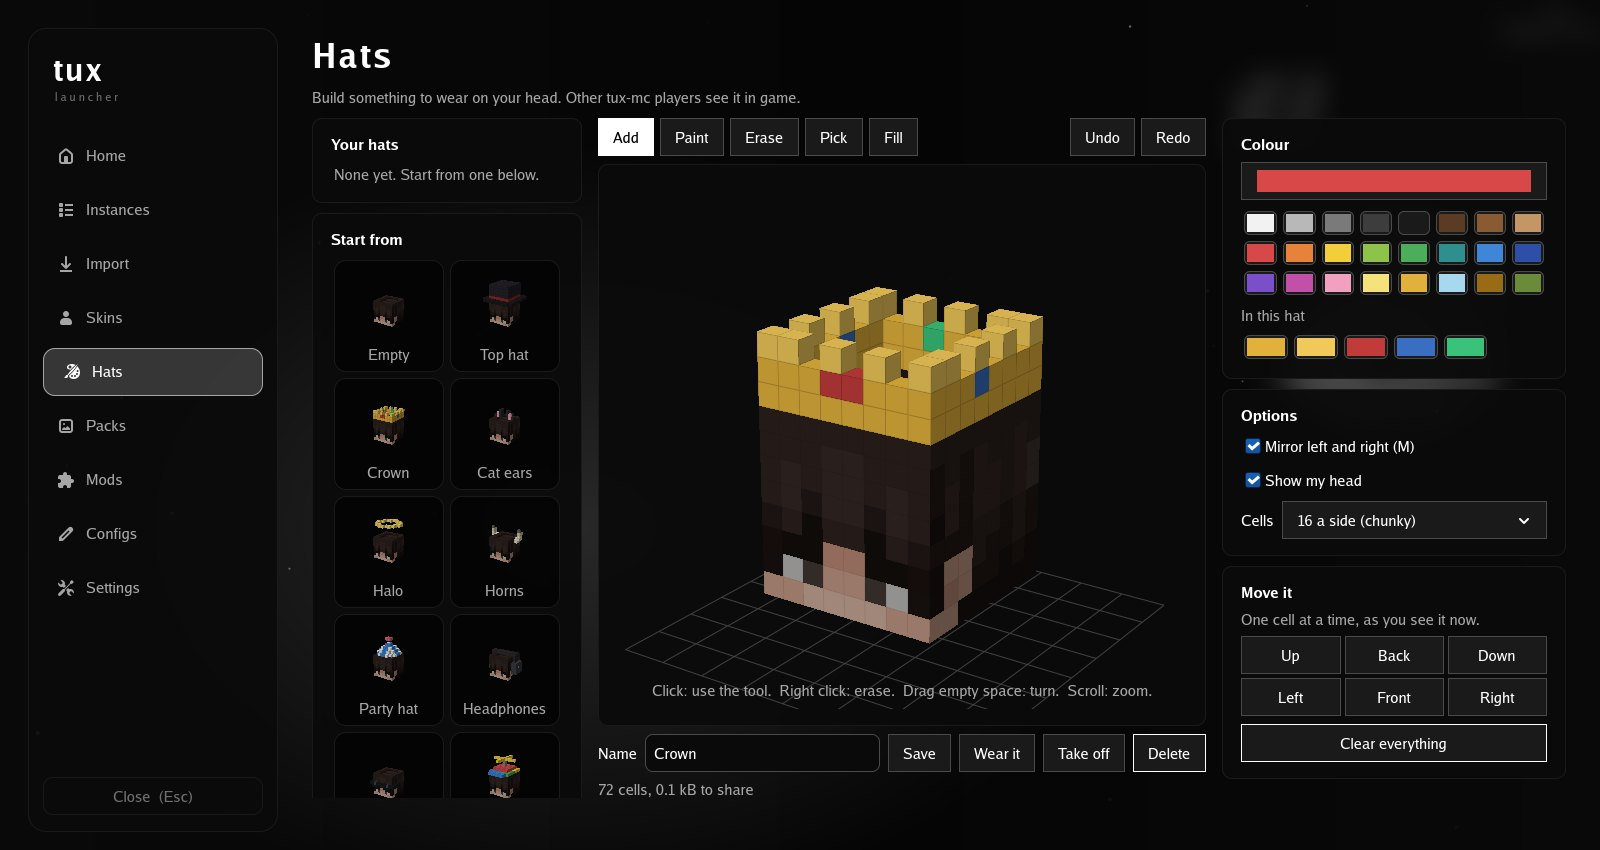
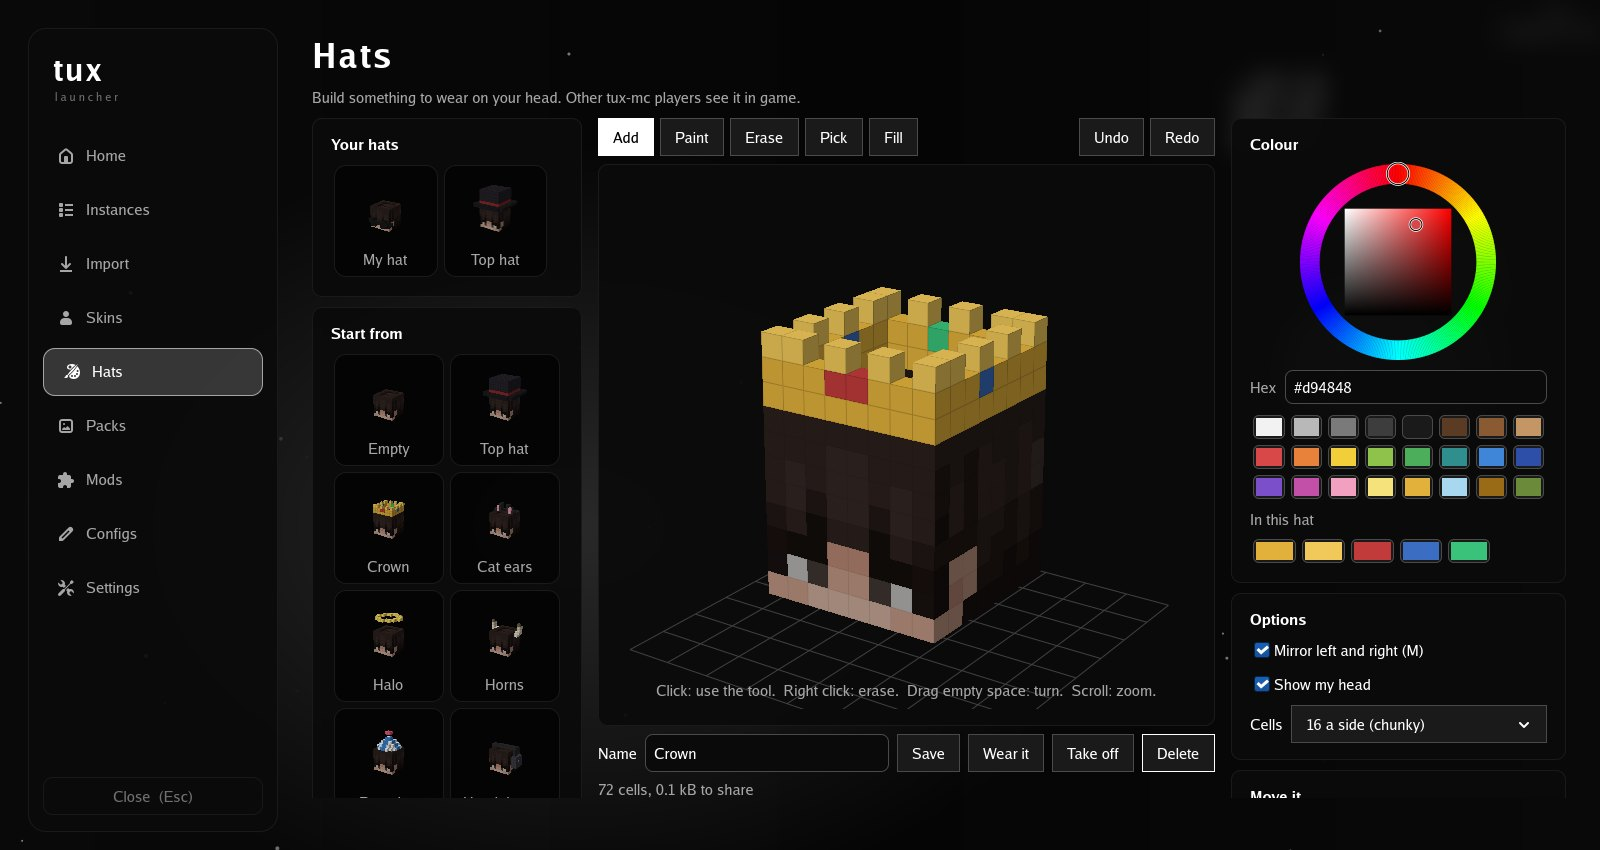
tux-mc: simpler Packs page, colour wheel

diff --git a/tux-mc/index.html b/tux-mc/index.html
@@ -257,14 +257,14 @@
       </div>
       <div class="grid grid--top fill" data-peek>
         <ul class="rows span-5">
-          <li data-peek-to="hats" tabindex="0"><span class="rows__name">Hats</span><p>Build a 3D model on your head, cell by cell, with one side mirrored for you. Start from a crown, cat ears, a top hat and more, or import a MagicaVoxel file.</p></li>
-          <li data-peek-to="packs" tabindex="0"><span class="rows__name">Packs</span><p>Make a resource pack here: draw on any texture, shift its colours, or change a whole group in one click, like clear glass or ores that stand out.</p></li>
+          <li data-peek-to="hats" tabindex="0"><span class="rows__name">Hats</span><p>Build a 3D model on your head, cell by cell, in any colour, with one side mirrored for you. Start from a crown, cat ears, a top hat and more, or import a MagicaVoxel file.</p></li>
+          <li data-peek-to="packs" tabindex="0"><span class="rows__name">Packs</span><p>Make a resource pack here: find any texture by name, draw on it with any colour from the wheel, and switch the pack on. Every change saves by itself.</p></li>
           <li data-peek-to="themes" tabindex="0"><span class="rows__name">Themes</span><p>Click a theme and it's used at once, in Prism and in game too. Or pick three colours, or take them from your wallpaper.</p></li>
           <li data-peek-to="title" tabindex="0"><span class="rows__name">Title screen</span><p>Your own picture behind the game's menus, with blur and darkening, previewed before you start.</p></li>
         </ul>
         <div class="frame frame--photo frame--fill span-6 start-7 win">
           <img class="frame__img" data-peek-for="hats" src="img/launcher-hats-800.jpg" srcset="img/launcher-hats-800.jpg 800w, img/launcher-hats.jpg 1600w" sizes="(min-width: 1024px) 50vw, 100vw" alt="The launcher's Hats page: a crown being built on the player's head, with starting points on the left and colours on the right" width="1600" height="850" loading="lazy">
-          <img class="frame__img" data-peek-for="packs" src="img/launcher-packs-800.jpg" srcset="img/launcher-packs-800.jpg 800w, img/launcher-packs.jpg 1600w" sizes="(min-width: 1024px) 50vw, 100vw" alt="The launcher's Packs page: quick looks on the left, the game's block textures in the middle and the diamond ore texture open in the editor" width="1600" height="850" loading="lazy" hidden>
+          <img class="frame__img" data-peek-for="packs" src="img/launcher-packs-800.jpg" srcset="img/launcher-packs-800.jpg 800w, img/launcher-packs.jpg 1600w" sizes="(min-width: 1024px) 50vw, 100vw" alt="The launcher's Packs page: the game's block textures on the left and the oak planks texture open in the editor with a colour wheel" width="1600" height="850" loading="lazy" hidden>
           <img class="frame__img" data-peek-for="themes" src="img/launcher-themes-800.jpg" srcset="img/launcher-themes-800.jpg 800w, img/launcher-themes.jpg 1600w" sizes="(min-width: 1024px) 50vw, 100vw" alt="The launcher's theme picker: each theme shown as a small picture of the launcher, and three colour buttons to make your own" width="1600" height="850" loading="lazy" hidden>
           <img class="frame__img" data-peek-for="title" src="img/launcher-title-800.jpg" srcset="img/launcher-title-800.jpg 800w, img/launcher-title.jpg 1600w" sizes="(min-width: 1024px) 50vw, 100vw" alt="Settings, Title screen: a night forest picture behind the game's menu buttons, with blur and darken sliders" width="1600" height="850" loading="lazy" hidden>
         </div>
